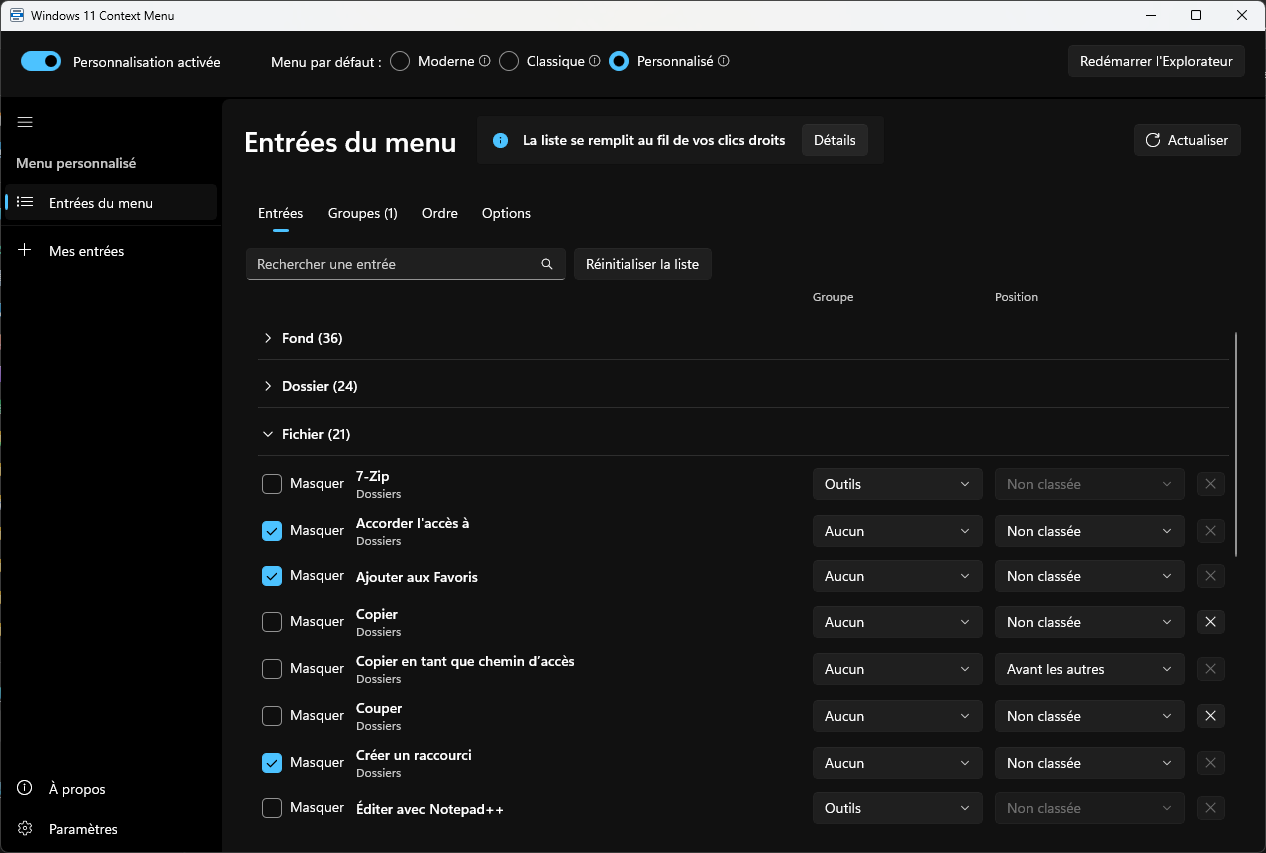
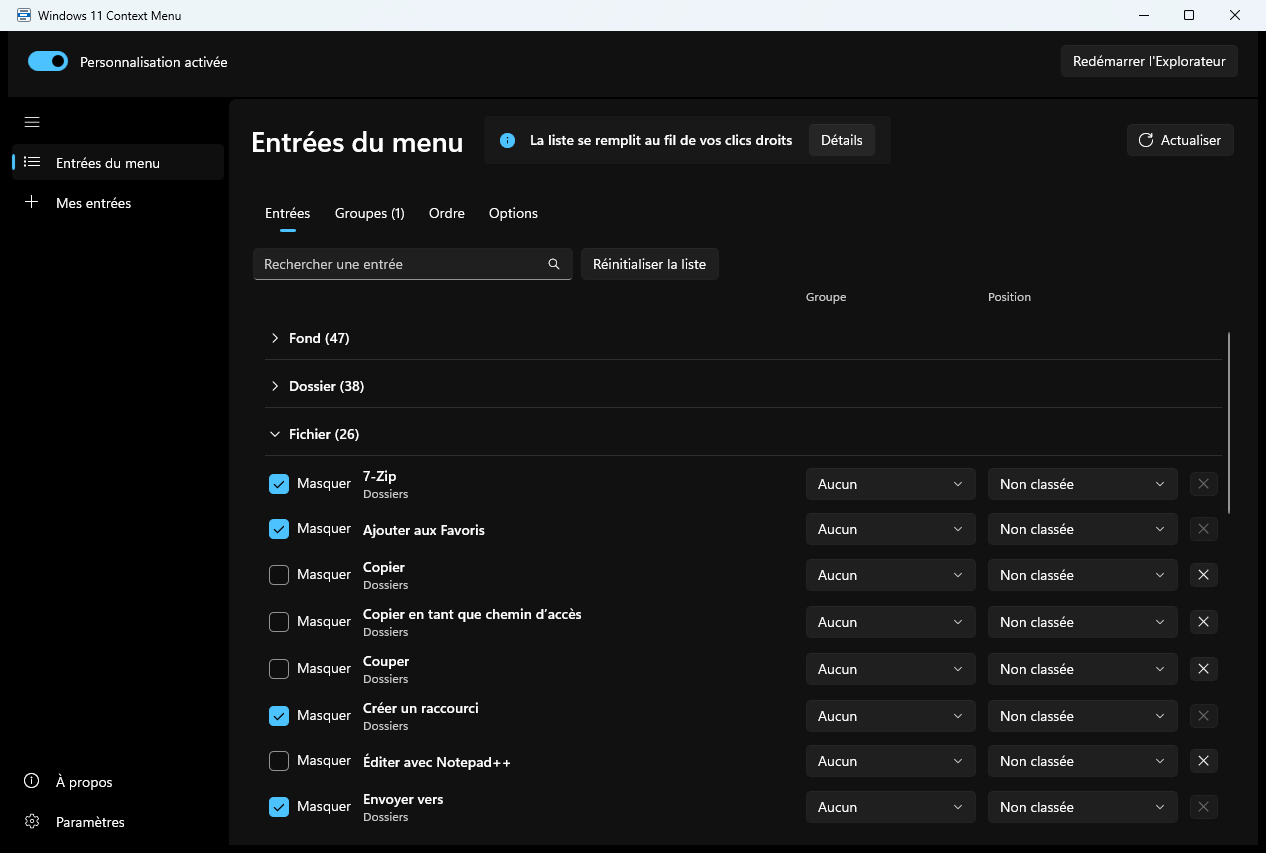
Vitrine v2.0.0

diff --git a/README.md b/README.md
@@ -37,26 +37,24 @@ Windows 11 Context Menu fixes all this without modifying Windows: one switch bri
 
 | | |
 | --- | --- |
-| 🎛 **Choose your menu** | Modern, classic (without “Show more options”) or custom. |
-| 🙈 **Hide** | The entries of Windows and of your apps that you never use. |
+| 🙈 **Hide** | The entries of Windows and of your apps that you never use, even those Windows will not let you remove (Open with, Send to…). |
 | ➕ **Add** | Your own commands or sub-menus (a 7-Zip template is provided). |
-| 🎨 **Custom menu** | The whole classic menu, redrawn like Windows 11: icons, light or dark theme, adjustable transparent background, action bar. Each entry can be hidden, grouped or moved. |
+| 🎨 **One menu** | Everything in a single menu, without “Show more options”, redrawn like Windows 11: icons, light or dark theme, adjustable transparent background, action bar. Each entry can be hidden, grouped or moved. |
 | ⌨ **Shortcuts** | Ctrl + right-click for Windows' classic menu, Ctrl + Shift to run as administrator. |
 | ↩ **Go back** | One switch restores the original menu, without losing your settings. |
 | 💾 **Back up** | Export your settings to a file and import them back, on this PC or another one. |
 | 🌍 **Six languages** | English, French, German, Spanish, Italian and Portuguese, following Windows. |
 | 🔄 **Updates** | The app lets you know and updates in one click. |
 
-| Modern menu | Classic menu |
-| :---: | :---: |
-| <img src="images/modern-menu.png" alt="The Windows 11 modern menu" /> | <img src="images/classic-menu.png" alt="The classic menu, with an open sub-menu of your own entries" /> |
-
 <p align="center">
   <img src="images/menu-entries-page.png" alt="The “Menu entries” page: hide, group and place each entry" width="820" />
 </p>
 
 > [!IMPORTANT]
-> **Closely tied to how Windows works.** To change the menu, the app relies on how File Explorer builds its right-click menu, which Microsoft does not document and can change at any time. A simple Windows update, Insider builds first, can break part of it, the custom menu most of all. If that happens, one switch brings the original menu back while a fix is on its way: please report it in an [Issue](https://github.com/Xavinooo/Windows11ContextMenu.Releases/issues/new/choose) with your Windows version.
+> **Closely tied to how Windows works.** To change the menu, the app relies on how File Explorer builds its right-click menu, which Microsoft does not document and can change at any time. A simple Windows update, Insider builds first, can break it. If that happens, one switch brings the original menu back while a fix is on its way: please report it in an [Issue](https://github.com/Xavinooo/Windows11ContextMenu.Releases/issues/new/choose) with your Windows version.
+
+> [!NOTE]
+> **Windows 11 26H2 and its new menu.** Newer Windows 11 builds have a new right-click menu and no longer open the classic one on their own. So that your menu still opens on a plain right-click there, the app runs a small program that starts with your Windows session. You can turn it off in Settings, under **Replace Windows' new context menu** — then open your menu with **Shift + right-click**. It only runs on PCs that have the new menu, and leaves nothing behind once turned off or uninstalled.
 
 ## Installation
 
@@ -80,22 +78,12 @@ The app is not signed by a recognised authority. Click **More info**, then **Run
 
 </details>
 
-<details>
-<summary><strong>Why a certificate?</strong></summary>
-
-<br>
-
-On first launch, the app installs a self-signed certificate (one administrator prompt). It is only used to register its menu extension with Windows. “Uninstall completely” removes it.
-
-</details>
-
 ## Getting started
 
-1. Click **Install** on first launch.
-2. At the top of the window, choose the **default menu**.
-3. Tick “Hide” on the entries you no longer want, then click **Restart File Explorer**.
+1. Launch the app, then click **Restart File Explorer**: the new menu replaces the Windows 11 one.
+2. Right-click a few times, on a file, a folder and a folder background: the **Menu entries** page fills up with what you have seen.
+3. Tick “Hide” on the entries you no longer want, group them or set their order: the change shows at the next right-click.
 4. In **My entries**, add your own commands.
-5. With the custom menu, right-click a few times: the **Menu entries** page fills up with what you have seen.
 
 ## Updates
 
@@ -108,8 +96,8 @@ At startup, at most once a day, the app checks whether a new version exists. **U
 
 <br>
 
-- **From the app**: **Settings > Uninstall completely** restores the original menu, removes the extension and the certificate, and deletes your settings. For a zip version, then delete its folder.
-- **Installed version**: Settings > Apps > Windows 11 Context Menu > Uninstall. The original menu comes back; the uninstaller asks whether to delete your settings and remove the certificate.
+- **From the app**: **Settings > Uninstall completely** restores the original menu, removes the extension and deletes your settings. For a zip version, then delete its folder.
+- **Installed version**: Settings > Apps > Windows 11 Context Menu > Uninstall. The original menu comes back; the uninstaller asks whether to delete your settings.
 
 </details>
 
@@ -120,11 +108,9 @@ At startup, at most once a day, the app checks whether a new version exists. **U
 
 <br>
 
-- A few entries of the modern menu cannot be hidden (Copy as path, AI actions…).
-- Hiding “Compress to”, “Send to my phone” or “Share with” makes Windows fall back to the old menu; the app warns you.
-- Hiding an entry or changing the menu requires restarting File Explorer (a button does it).
-- Custom menu: an entry appears in “Menu entries” only after it has been seen once in a real menu.
-- Custom menu: screen readers do not read the names of the redrawn entries.
+- Turning the menu on or off requires restarting File Explorer (a button does it).
+- An entry appears in “Menu entries” only after it has been seen once in a real menu.
+- Screen readers do not read the names of the redrawn entries.
 
 </details>
 
